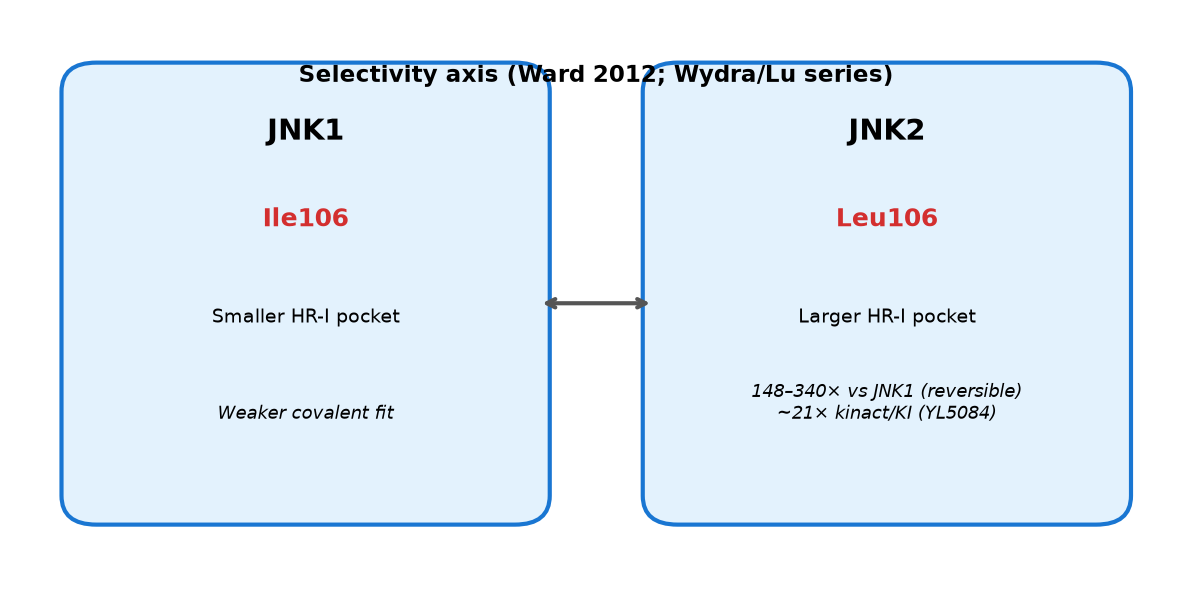
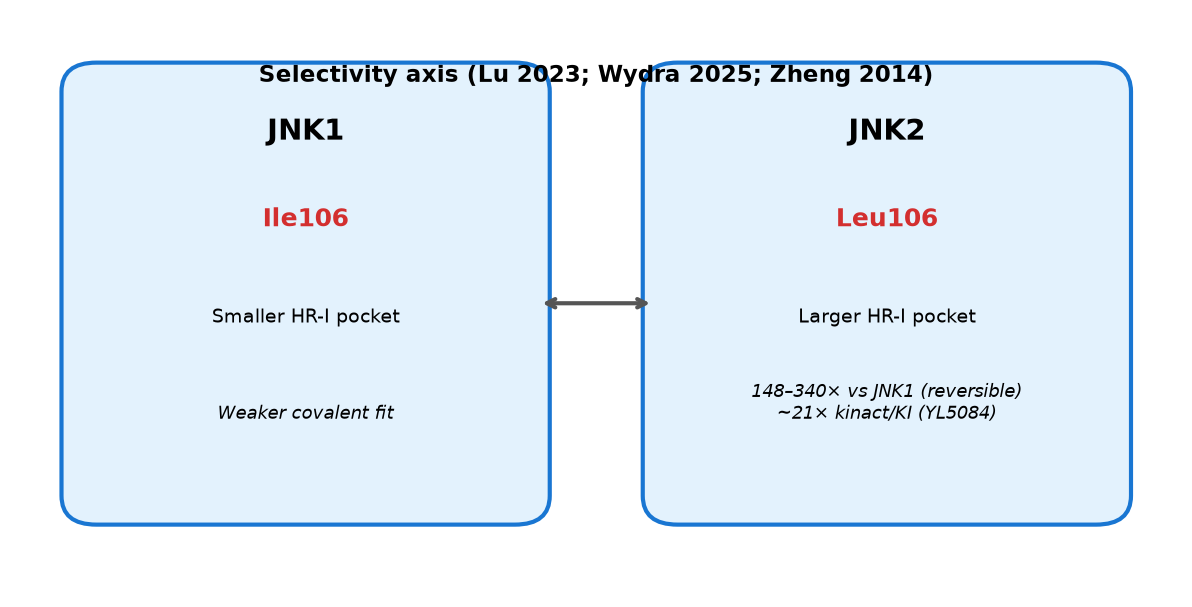
Audit and fix compound structures, literature refs, and report errors
- Add COMPOUND_LITERATURE_AUDIT.md with full Phase 0 + PDB + citation check
- Complete 56a in seed CSV (CHEMBL6151222, propionamide, MW 518.58)
- Fix REPORT.md: Lu 2023/R2/R20 citations, acrylamide warheads, Ile106, COValid R15
- Fix fig02 26k SMILES to 4WHZ ligand 3NL; regenerate report figures
- Update COMPOUNDS, STRUCTURE_AUDIT, phase0 README

Changed region(s): [[0.2173, 0.089, 0.776, 0.1483]]

diff --git a/JNK2_Covalent_Selectivity_Project/scripts/generate_report_figures.py b/JNK2_Covalent_Selectivity_Project/scripts/generate_report_figures.py
@@ -29,7 +29,7 @@ COMPOUNDS = [
     ("YL2056", "CN(C)C/C=C/C(=O)Nc1ccc(C(=O)N2CC[C@H](Nc3nccc(-c4c(-c5ccccc5)nn5ccccc45)n3)C2)cc1", "8ELC ligand [R3]"),
     ("JNK-IN-8", "Cc1cc(NC(=O)c2cccc(NC(=O)/C=C/CN(C)C)c2)ccc1Nc1nccc(-c2cccnc2)n1", "Pan-JNK covalent [R2]"),
     ("56d", "C=CC(=O)Nc1cccc(C(=O)Nc2cccc(-n3cc(NC(=O)Nc4cccc5ccccc45)cn3)c2)c1", "Ligand-first covalent [R1]"),
-    ("26k", "Cc1cc(Nc2nc(N)nc(Nc3ccc(C(F)(F)F)cc3)n2)ccc1F", "DFG-in reversible [R7b]"),
+    ("26k", "Clc1ccccc1NC(=O)Nc1cn(nc1)c2cccc(c2)C(=O)Nc2cn(nc2)[C@H]3CCNC3", "4WHZ ligand 26k/3NL [R7b]"),
     ("BIRB796", "CN1CCN(Cc2ccc(NC(=O)Nc3ccc(F)c(C(F)(F)F)c3)cc2C(F)(F)F)CC1=O", "DFG-out Type II [R7]"),
 ]
 
@@ -48,7 +48,7 @@ def fig01_five_stages() -> None:
     stages = [
         ("Stage 1\nLiterature & PDB", "8ELC / 4WHZ / 3NPC"),
         ("Stage 2\nSeeds & Decoys", "YL5084 + acrylamide decoys"),
-        ("Stage 3\nAF3 Gate", "mPAE + EF@1% >= 2 [R7b]"),
+        ("Stage 3\nAF3 Gate", "mPAE + EF@1% >= 2 [R15]"),
         ("Stage 4\nCovalent Dock", "DFG-in 8ELC only"),
         ("Stage 5\nSelectivity", "kinact/KI, C116S, cells"),
     ]
@@ -138,7 +138,7 @@ def fig04_leu106() -> None:
         ax.text(x, 2.8, pocket, ha="center", fontsize=9)
         ax.text(x, 1.8, sel, ha="center", fontsize=8.5, style="italic")
     ax.annotate("", xy=(5.5, 3), xytext=(4.5, 3), arrowprops=dict(arrowstyle="<->", color="#555", lw=2))
-    ax.text(5, 5.3, "Selectivity axis (Ward 2012; Wydra/Lu series)", ha="center", fontsize=11, fontweight="bold")
+    ax.text(5, 5.3, "Selectivity axis (Lu 2023; Wydra 2025; Zheng 2014)", ha="center", fontsize=11, fontweight="bold")
     fig.savefig(FIG_DIR / "fig04_leu106_selectivity.png", dpi=150, bbox_inches="tight")
     plt.close(fig)
 

diff --git a/JNK2_Covalent_Selectivity_Project/docs/report/REPORT.md b/JNK2_Covalent_Selectivity_Project/docs/report/REPORT.md
@@ -1,7 +1,8 @@
 # JNK2 共价选择性抑制剂 — 图文报告
 
 > 本报告从项目参考文献与公开结构库整理示意图，供 GitHub 浏览与汇报使用。  
-> 文献编号对应根目录 [`REFERENCES.md`](../../REFERENCES.md)。
+> 文献编号对应根目录 [`REFERENCES.md`](../../REFERENCES.md)。  
+> 化合物全量核对见 [`data/phase0_af3/COMPOUND_LITERATURE_AUDIT.md`](../../data/phase0_af3/COMPOUND_LITERATURE_AUDIT.md)。
 
 ---
 
@@ -10,7 +11,7 @@
 ![五阶段决策流程](figures/fig01_five_stages_flow.png)
 
 **图 1.** 从靶点与结构选择 → 共价种子与诱饵 → AF3 置信度门控 → 共价对接与 MMGBSA → 选择性验证与候选推进。  
-**依据：** 项目 [`JNK2项目决策五阶段.md`](../../JNK2项目决策五阶段.md)；AF3 门控参考 COValid [R7b]。
+**依据：** 项目 [`JNK2项目决策五阶段.md`](../../JNK2项目决策五阶段.md)；AF3 门控参考 COValid **[R15]**。
 
 ---
 
@@ -20,17 +21,17 @@
 
 **图 2.** 种子与对照分子的 2D 结构（RDKit 自项目 SMILES 绘制）。
 
-| 分子 | 角色 | 主要文献 |
-|------|------|----------|
-| YL5084 | JNK2 共价 hit（丙烯酰胺） | Wydra 2014 [R1] |
-| YL2056 | 共价 hit / 56d 前体 | Wydra 2014 [R1] |
-| JNK-IN-8 | 共价 hit（Chloroacetamide） | Ward 2012 [R3] |
-| 56d | 共价 hit（Chloroacetamide） | Wydra 2014 [R1] |
-| JNK-IN-6 | 共价 hit（Chloroacetamide） | Ward 2012 [R3] |
-| 26k | 可逆 DFG-in 选择性参照 | 4WHZ [R7b] |
-| BIRB796 | 可逆 DFG-out 参照（非共价） | 3NPC [R7] |
+| 分子 | 角色 | Warhead | 主要文献 |
+|------|------|---------|----------|
+| YL5084 | JNK2 共价 hit（JNK2>JNK1 ~21×） | 丙烯酰胺 | Lu 2023 **[R1]** |
+| YL2056 | 8ELC 共晶配体；YL5084 前体 | 丙烯酰胺 | Lu 2023 **[R1]** / PDB **[R3]** |
+| JNK-IN-8 | Pan-JNK 共价阳性 | 丙烯酰胺 | Zhang 2012 **[R2]** |
+| 56d | Ligand-first JNK2/3>>JNK1 共价 hit | 丙烯酰胺 | Wydra 2025 **[R20]** |
+| JNK-IN-6 | 共价阴性对照 | 丙酰胺 | Zhang 2012 **[R2]** |
+| 26k | 可逆 DFG-in 选择性参照 | 无（可逆） | 4WHZ **[R7b]** |
+| BIRB796 | 可逆 DFG-out 参照 | 无（可逆） | 3NPC **[R7]** |
 
-SMILES 来源：[`data/phase0_af3/phase0_compounds_seed.csv`](../../data/phase0_af3/phase0_compounds_seed.csv)、[`COMPOUNDS.md`](../../data/phase0_af3/COMPOUNDS.md)。
+SMILES 来源：[`phase0_compounds_seed.csv`](../../data/phase0_af3/phase0_compounds_seed.csv)、[`COMPOUNDS.md`](../../data/phase0_af3/COMPOUNDS.md)。
 
 ---
 
@@ -38,21 +39,21 @@ SMILES 来源：[`data/phase0_af3/phase0_compounds_seed.csv`](../../data/phase0_
 
 ![DFG-in vs DFG-out 示意](figures/fig03_dfg_in_vs_out_schematic.png)
 
-**图 3.** 共价初筛以 **DFG-in / 8ELC** 为主：Cys116 在 P-loop 内可及；**3NPC（DFG-out）** 中 Cys116 被 Phe169 等遮挡，且共价 hit 晶体多来自 DFG-in 系列 [R1][R3][R7]。
+**图 3.** 共价初筛以 **DFG-in / 8ELC** 为主：Cys116 在 P-loop 内可及；**3NPC（DFG-out）** 中 Cys116 被遮挡，且共价 hit 共晶多来自 DFG-in 系列 **[R1][R2][R3]**。
 
 | 结构 | 构象 | 共价初筛 | 说明 |
 |------|------|----------|------|
-| **8ELC** | DFG-in | ✅ 主模板 | YL5084–JNK2 共晶 [R1] |
-| **4WHZ** | DFG-in | ⚪ 可逆选择性参照 | JNK3–26k 氨基吡唑 [R7b] |
-| **3NPC** | DFG-out | ❌ 排除共价初筛 | BIRB796 Type II；与 hit 构象不一致 |
+| **8ELC** | DFG-in | ✅ 主模板 | JNK2–**YL2056** 共晶 **[R3]** |
+| **4WHZ** | DFG-in | ⚪ 可逆选择性参照 | JNK3–26k（3NL）**[R7b]** |
+| **3NPC** | DFG-out | ❌ 排除共价初筛 | BIRB796 Type II **[R7]** |
 
 ---
 
-## 4. JNK2 vs JNK1 选择性（Leu106）
+## 4. JNK2 vs JNK1 选择性（Leu106 / Ile106）
 
 ![Leu106 选择性示意](figures/fig04_leu106_selectivity.png)
 
-**图 4.** JNK2 **Leu106** 对应 JNK1 **Met146**；Ward 2012 共价 hit 在 JNK2 上选择性显著高于 JNK1 [R3]。项目优先 **JNK2 共价 + DFG-in** 路线。
+**图 4.** JNK2 **Leu106** 对应 JNK1 **Ile106**（同序位点）；Lu 2023 / Wydra 2025 系列在此轴上实现 21×–340× 亚型选择性 **[R1]**。项目优先 **JNK2 共价 + DFG-in** 路线。
 
 ---
 
@@ -60,58 +61,40 @@ SMILES 来源：[`data/phase0_af3/phase0_compounds_seed.csv`](../../data/phase0_
 
 ![PDB 结构面板](figures/fig05_pdb_structure_panel.png)
 
-**图 5.** 自 RCSB 下载的组装图（assembly 1）。点击下图可跳转 RCSB 条目页。
+**图 5.** 自 RCSB 下载的组装图（assembly 1）。
 
 | 面板 | PDB | 配体/说明 | 文献 |
 |------|-----|-----------|------|
 | A | [8ELC](https://www.rcsb.org/structure/8ELC) | YL2056，DFG-in 共价 | [R3] |
 | B | [3NPC](https://www.rcsb.org/structure/3NPC) | BIRB796，DFG-out 可逆 | [R7] |
-| C | [4WHZ](https://www.rcsb.org/structure/4WHZ) | 26k，DFG-in 选择性 | [R7b] |
+| C | [4WHZ](https://www.rcsb.org/structure/4WHZ) | 26k（3NL），DFG-in | [R7b] |
 | D | [3V6S](https://www.rcsb.org/structure/3V6S) | JNK-IN-7（JNK3 共晶） | [R2] |
 | E | [7N8T](https://www.rcsb.org/structure/7N8T) | JNK2–AMP，1.6 Å | [R4] |
 
-原始 JPEG：`figures/*_assembly.jpeg`（来源 [RCSB PDB](https://www.rcsb.org/)）。
-
 ---
 
-## 6. Phase 0 AF3 数据包（输入侧）
+## 6. Phase 0 AF3 数据包
 
 | 内容 | 路径 |
 |------|------|
 | 种子/诱饵 SMILES | `data/phase0_af3/phase0_compounds_seed.csv` |
-| 分子角色说明 | `data/phase0_af3/COMPOUNDS.md` |
-| 结构审计 | `data/phase0_af3/STRUCTURE_AUDIT.md` |
+| 结构 + 文献审计 | `data/phase0_af3/COMPOUND_LITERATURE_AUDIT.md` |
 | AF3 FASTA / 模板 | `data/phase0_af3/sequences/`、`templates/` |
-
-AF3 **置信度判断**需在跑完结构后合并 `summary_confidences.json`，计算 mPAE 与 EF@1%（见 [`JNK2项目决策五阶段.md`](../../JNK2项目决策五阶段.md) 阶段 3）。
 
 ---
 
-## 7. 核心参考文献（本报告引用）
+## 7. 核心参考文献
 
 | ID | 内容 |
 |----|------|
-| [R1] | Wydra et al., *ACS Chem. Biol.* 2014 — YL5084 / YL2056 / 56d，8ELC |
-| [R2] | Zhang et al., *Chem. Biol.* 2012 — JNK-IN-8 系列，3V6S |
-| [R3] | Lu et al. / PDB 8ELC — JNK2–YL2056 共价共晶 |
+| [R1] | Lu et al., *J Med Chem* 2023 — YL5084 / YL2056 |
+| [R2] | Zhang et al., *Chem Biol* 2012 — JNK-IN 共价系列 |
+| [R3] | PDB 8ELC — JNK2–YL2056 |
 | [R4] | PDB 7N8T — JNK2–AMP |
-| [R7] | BIRB796 / 3NPC — DFG-out Type II |
-| [R7b] | PDB 4WHZ — 26k DFG-in 选择性 |
-| [R7b] | COValid — AF3 共价对接置信度与 EF@1% 门控 |
+| [R7] | BIRB796 / 3NPC — DFG-out |
+| [R7b] | PDB 4WHZ — 26k DFG-in |
+| [R15] | COValid — AF3 共价门控 |
 
 完整列表：[`REFERENCES.md`](../../REFERENCES.md)。
 
----
-
-## 图件清单
-
-| 文件 | 说明 |
-|------|------|
-| `fig01_five_stages_flow.png` | 五阶段流程图 |
-| `fig02_key_compounds_2d.png` | 关键分子 2D |
-| `fig03_dfg_in_vs_out_schematic.png` | DFG-in/out 与 Cys116 |
-| `fig04_leu106_selectivity.png` | JNK1/JNK2 选择性 |
-| `fig05_pdb_structure_panel.png` | PDB 组装图面板 |
-| `*_assembly.jpeg` | RCSB 原图 |
-
-*生成日期：2026-07-10 · 项目分支 `cursor/jnk2-covalent-master-table-26c6`*
+*生成日期：2026-07-10 · 审计修订版*

diff --git a/JNK2_Covalent_Selectivity_Project/data/phase0_af3/COMPOUND_LITERATURE_AUDIT.md b/JNK2_Covalent_Selectivity_Project/data/phase0_af3/COMPOUND_LITERATURE_AUDIT.md
@@ -1,0 +1,101 @@
+# 化合物 / 文献 / PDB 全量核对报告
+
+核对日期：2026-07-10  
+范围：Phase 0 种子表、主表、REFERENCES.md、`docs/report/`
+
+---
+
+## 一、Phase 0 种子分子（7 条）
+
+| ID | 分子 | 结构 | 文献 | PDB | 结论 |
+|----|------|------|------|-----|------|
+| ACT001 | YL5084 | ✅ ChEMBL5398852 = PubChem 153610906；MW 600.73 | **Lu 2023** [R1] | 无独立 PDB；pose 来自 8ELC | ✅ |
+| ACT002 | YL2056 | ✅ ChEMBL5413843；MW 586.70；丙烯酰胺 | **Lu 2023** [R1] | **8ELC** 共晶配体（PDB Y56 为 post-covalent butanamide） | ✅ |
+| ACT003 | JNK-IN-8 | ✅ ChEMBL2216824 = PubChem 57340686；MW 507.60；**丙烯酰胺**（非 chloroacetamide） | **Zhang 2012** [R2] | 无独立 PDB；叠合 **3V6S** / 8ELC | ✅ |
+| ACT004 | 56d | ✅ 用户/Wydra SMILES；MW 516.56；CHEMBL6167401 同结构 | **Wydra 2025** [R20] | 无 PDB；叠合 4WHZ+3V6S | ✅ |
+| NEG002 | YL5084R | ✅ ChEMBL5436581；butanamide | Lu 2023 [R1] | — | ✅ |
+| NEG001 | JNK-IN-6 | ✅ PubChem 57340684；propionamide；MW 438.49 | Zhang 2012 [R2] | — | ✅ |
+| NEG003 | 56a | ✅ **已补** CHEMBL6151222；propionamide；MW 518.58 | Wydra 2025 [R20] | — | ✅ 新补 |
+
+### 已修正的历史错误
+
+| 问题 | 正确信息 |
+|------|----------|
+| 56d 曾绑 CHEMBL5947460 | 嘌呤结构，Tc≈0.17，**非 56d** |
+| REPORT 写 YL5084/YL2056 → Wydra 2014 | **Lu 2023** J Med Chem |
+| REPORT 写 JNK-IN-8/56d → chloroacetamide | 均为 **丙烯酰胺 Michael 受体** |
+| REPORT 写 JNK-IN-6 为阳性 hit | **丙酰胺阴性对照** |
+| REPORT 写 JNK1 对应 Met146 | 同位点为 **Ile106**（Met146 为 JNK3 Leu144 同源） |
+| REPORT [R7b] 重复指 COValid | COValid 应为 **[R15]** |
+| fig02 中 26k 2D 结构错误 | 已换为 4WHZ 配体 **3NL（26k）** RCSB SMILES |
+| 8ELC  caption 写 YL5084 共晶 | 共晶配体为 **YL2056** |
+
+---
+
+## 二、文献编号对照（REFERENCES.md）
+
+| 编号 | 内容 | 关联分子/结构 |
+|------|------|---------------|
+| **[R1]** | Lu W et al., *J Med Chem* **2023** — YL5084/YL2056 | YL5084, YL2056, YL5084R |
+| **[R2]** | Zhang T et al., *Chem Biol* **2012** — JNK-IN 系列 | JNK-IN-2/6/7/8/11/12 |
+| **[R3]** | PDB **8ELC** — JNK2–YL2056 | 主共价模板 |
+| **[R4]** | PDB **7N8T** — JNK2–AMP | 对照结构 |
+| **[R5]** | PDB **3V6R** — JNK3–JNK-IN-2 | 共价叠合参照 |
+| **[R7]** | PDB **3NPC** — BIRB796 DFG-out | 共价初筛禁用 |
+| **[R7b]** | PDB **4WHZ** — JNK3–**26k**（配体 3NL） | 可逆 DFG-in 选择性 |
+| **[R15]** | Shamir et al., COValid / AF3 共价门控 | Phase 0 AF3 EF@1% |
+| **[R20]** | Wydra et al., *J Med Chem* **2025** — 56d/56a 系列 | 56d, 56a, 21b, 51d |
+
+> **注意：** [R7b] 在 REFERENCES.md 中标题为 4WHZ/26k；勿与 [R15] COValid 混用。
+
+---
+
+## 三、PDB 面板核对
+
+| PDB | 蛋白 | 配体 | DFG | 文献 | 项目角色 |
+|-----|------|------|-----|------|----------|
+| 8ELC | JNK2 | YL2056 (Y56) | in | [R3]/[R1] | **共价主模板** |
+| 3NPC | JNK2 | BIRB796 | out | [R7] | 共价初筛排除 |
+| 4WHZ | JNK3 | 26k (3NL) | in | [R7b] | 可逆选择性参照 |
+| 3V6S | JNK3 | JNK-IN-7 | in | [R2] | 共价叠合参照 |
+| 7N8T | JNK2 | AMP | in | [R4] | 活化环参照 |
+| 3V6R | JNK3 | JNK-IN-2 | in | [R2]/[R5] | IN-2 共晶（非 3V6S） |
+
+---
+
+## 四、Warhead 类型（勿混淆）
+
+| 分子 | Warhead | 说明 |
+|------|---------|------|
+| YL5084, YL2056, JNK-IN-8, 56d | **丙烯酰胺** | Michael 受体；需 bondedAtomPairs |
+| YL5084R, 56a, JNK-IN-6 | **饱和酰胺 / 丙酰胺** | 共价阴性对照 |
+| BIRB796, 26k | **无共价弹头** | 可逆 ATP 竞争 |
+
+JNK 系列 **无 chloroacetamide** 文献报道；勿在报告中写错。
+
+---
+
+## 五、ChEMBL 交叉验证摘要
+
+```
+CHEMBL5398852  YL5084   MW 600.73  ✅
+CHEMBL5413843  YL2056   MW 586.70  ✅
+CHEMBL2216824  JNK-IN-8 MW 507.60  ✅
+CHEMBL5436581  YL5084R  MW 602.74  ✅
+CHEMBL6167401  56d      MW 516.56  ✅
+CHEMBL6151222  56a      MW 518.58  ✅
+PubChem 57340684 JNK-IN-6 MW 438.49 ✅
+PubChem 57340686 JNK-IN-8 InChIKey 与 seed 一致（E 型丙烯酰胺）✅
+```
+
+---
+
+## 六、仍建议人工复核项
+
+1. **56a/56d**：ChEMBL6151222 与 Wydra 2025 正文编号 56a 的对应关系建议在 SI Table 中再对一次化合物 ID。
+2. **AF3 输入表**（用户本地 CSV）：YL2056 行的 `bonded_atom_pairs` / `use_bonded_atom_pairs` 需在跑 AF3 前修正。
+3. **26k 2D 图**：已改用 4WHZ/3NL SMILES；若需无立体标绘，使用 `[C@H]5CCNC5` 形式。
+
+---
+
+*维护：结构变更后同步更新 `phase0_compounds_seed.csv`、`STRUCTURE_AUDIT.md` 与本文件。*

diff --git a/JNK2_Covalent_Selectivity_Project/data/phase0_af3/COMPOUNDS.md b/JNK2_Covalent_Selectivity_Project/data/phase0_af3/COMPOUNDS.md
@@ -1,40 +1,36 @@
 # Phase 0 分子清单与用途说明
 
-完整结构核对见 → [`STRUCTURE_AUDIT.md`](STRUCTURE_AUDIT.md)
+完整结构核对见 → [`STRUCTURE_AUDIT.md`](STRUCTURE_AUDIT.md)  
+文献 / PDB 全量审计 → [`COMPOUND_LITERATURE_AUDIT.md`](COMPOUND_LITERATURE_AUDIT.md)
 
-## 已验证分子
+## 已验证分子（7/7）
 
 | ID | 分子 | 状态 | 用途 |
 |----|------|------|------|
 | ACT001 | YL5084 | ✅ | Phase 0 主阳性 + decoy 锚点 |
-| ACT002 | YL2056 | ✅ | 8ELC 共晶系列；**AF3 用 acrylamide**；PDB 中为 post-covalent |
-| ACT003 | JNK-IN-8 | ✅ | Pan-JNK 共价阳性 |
-| ACT004 | 56d | ✅ 已修正 | Ligand-first JNK2/3>>JNK1 阳性 |
+| ACT002 | YL2056 | ✅ | 8ELC 共晶系列；AF3 用 acrylamide |
+| ACT003 | JNK-IN-8 | ✅ | Pan-JNK 共价阳性（丙烯酰胺） |
+| ACT004 | 56d | ✅ | Ligand-first JNK2/3>>JNK1 阳性 |
 | NEG002 | YL5084R | ✅ | 共价阴性（butanamide） |
-| NEG001 | JNK-IN-6 | ✅ 已补 | 丙酰胺阴性（JNK-IN-7 系列） |
+| NEG001 | JNK-IN-6 | ✅ | 丙酰胺阴性（JNK-IN-7 系列） |
+| NEG003 | 56a | ✅ | 丙酰胺阴性（56d 配对） |
 
-## 仍待补
+## 重要更正（2026-07-10）
 
-| 分子 | 用途 |
-|------|------|
-| **56a** | 56 系列丙酰胺阴性 |
-
-## 重要更正（2026-07-09）
-
-1. **56d**：原 CHEMBL5947460 完全错误，已替换为 Wydra 2025 结构（MW 516.56）。
-2. **JNK-IN-6**：已补 PubChem 57340684；**不是** JNK-IN-8 的 SMILES。
-3. **YL2056 vs 8ELC**：ChEMBL 丙烯酰胺正确；PDB 配体 Y56 登记为 butanamide（共价加成后 warhead 区），RMSD 请比骨架。
+1. **56a**：已补 CHEMBL6151222（propionamide，MW 518.58）。
+2. **文献**：YL5084/YL2056 → Lu 2023 [R1]；JNK-IN 系列 → Zhang 2012 [R2]；56d/56a → Wydra 2025 [R20]。
+3. **Warhead**：JNK 共价 hit 均为 **丙烯酰胺**，非 chloroacetamide。
+4. **8ELC**：共晶配体为 **YL2056**（PDB Y56 为 post-covalent butanamide）。
 
 ## Warhead 与 AF3
 
 | 分子 | Warhead | bondedAtomPairs |
 |------|---------|-----------------|
 | YL5084, YL2056, JNK-IN-8, 56d | 丙烯酰胺 | 需要 |
-| YL5084R, JNK-IN-6 | 饱和/丙酰胺 | 不需要 |
-| 56a | 丙酰胺 | 不需要（待补） |
+| YL5084R, JNK-IN-6, 56a | 饱和/丙酰胺 | 不需要 |
 
 ## 参考
 
-- Lu 2023: [10.1021/acs.jmedchem.2c01834](https://doi.org/10.1021/acs.jmedchem.2c01834)
-- Zhang 2012: [10.1016/j.chembiol.2011.11.010](https://doi.org/10.1016/j.chembiol.2011.11.010)
-- Wydra 2025: [10.1021/acs.jmedchem.5c00884](https://doi.org/10.1021/acs.jmedchem.5c00884)
+- Lu 2023 [R1]: [10.1021/acs.jmedchem.2c01834](https://doi.org/10.1021/acs.jmedchem.2c01834)
+- Zhang 2012 [R2]: [10.1016/j.chembiol.2011.11.010](https://doi.org/10.1016/j.chembiol.2011.11.010)
+- Wydra 2025 [R20]: [10.1021/acs.jmedchem.5c00884](https://doi.org/10.1021/acs.jmedchem.5c00884)

diff --git a/JNK2_Covalent_Selectivity_Project/data/phase0_af3/README.md b/JNK2_Covalent_Selectivity_Project/data/phase0_af3/README.md
@@ -14,6 +14,7 @@
 | `phase0_compounds_seed.csv` | 分子种子表（含 SMILES、用途 `role`、AF3 是否需共价键） |
 | `COMPOUNDS.md` | **各分子用途中文说明**（阳性/阴性/decoy 锚点） |
 | `STRUCTURE_AUDIT.md` | **结构核对报告**（ChEMBL/PubChem/PDB 交叉验证） |
+| `COMPOUND_LITERATURE_AUDIT.md` | **化合物 + 文献 + PDB 全量审计** |
 | `pdb_references.csv` | 结构模板索引 |
 | `af3_input_template.json` | Cys 编号、`bondedAtomPairs`、gate 阈值 |
 | `decoy_property_targets.yaml` | COValid 6 性质 + Tc 过滤规则 |

diff --git a/JNK2_Covalent_Selectivity_Project/docs/report/figures/README.md b/JNK2_Covalent_Selectivity_Project/docs/report/figures/README.md
@@ -7,7 +7,7 @@ Figures for [`../REPORT.md`](../REPORT.md).
 - `fig01_five_stages_flow.png` — project five-stage workflow
 - `fig02_key_compounds_2d.png` — RDKit 2D structures from seed SMILES
 - `fig03_dfg_in_vs_out_schematic.png` — DFG-in (8ELC) vs DFG-out (3NPC) for covalent screening
-- `fig04_leu106_selectivity.png` — JNK2 Leu106 vs JNK1 Met146
+- `fig04_leu106_selectivity.png` — JNK2 Leu106 vs JNK1 Ile106
 - `fig05_pdb_structure_panel.png` — RCSB assembly images composite
 
 ## Source (RCSB)
